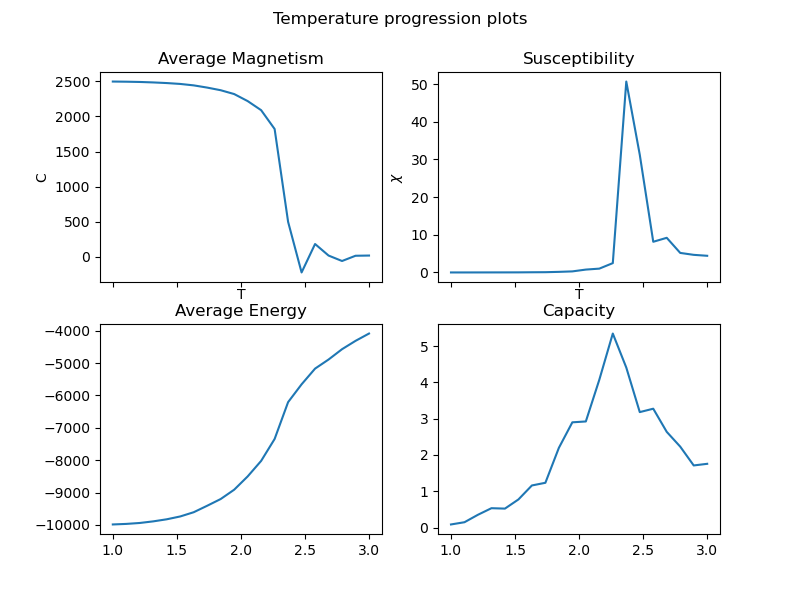
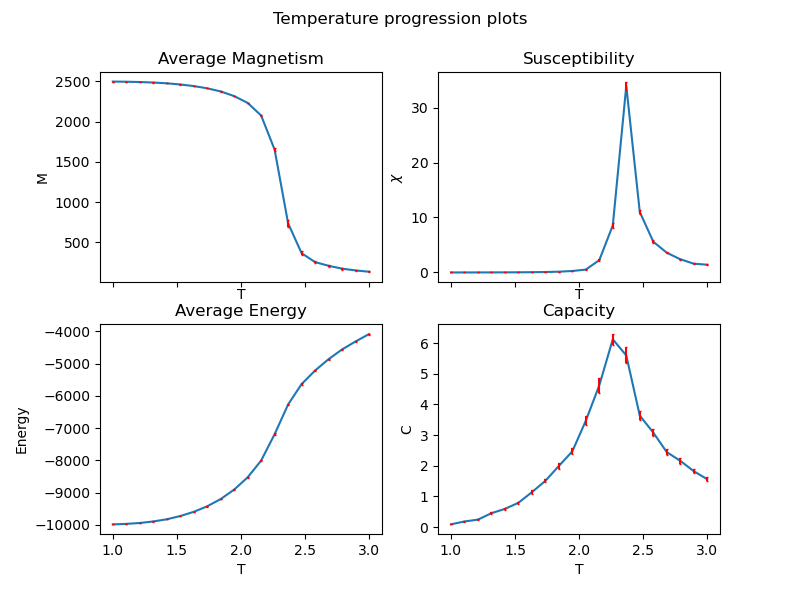
added errorbars and refactored storage method

diff --git a/simulate.py b/simulate.py
@@ -1,0 +1,120 @@
+from Ising_Model import Lattice
+import copy
+import numpy as np
+from matplotlib import pyplot as plt
+import timeit
+import json
+import time
+#params
+
+def equilibrate(states: Lattice,method: str):
+    """
+    returns a lattice that has been allowed to reach equilibrium (100 sweeps) using either
+    Glauber method or Kawasaki method
+    """
+    new = copy.copy(states)
+    if method.lower() == "g" or method.lower() == "glauber":
+        new.sim_glauber(100)
+    elif method.lower() == "k" or method.lower() == "kawasaki":
+        new.sim_kawasaki(100)
+    return new
+
+def susceptibility(av_M,av_M2,N,T):
+    return 1/(N*T)*(av_M2-av_M**2)
+
+
+def capacity(av_E,av_E2,N,T):
+    return 1/(N*T**2)*(av_E2-av_E**2)
+
+def error(av,av2,N,tau=10):
+    """
+    returns the uncorrelated error for either the magnetism or the energy
+    av = <x>
+    av2 = <x^2>
+    N = number of measurements
+    tau = autocorrelation time (number of sweeps between each measurement), default 10
+    """
+    return ((av2-av**2)*(2*tau)/(N))**(1/2)
+
+def bootstrap(measurements,value,k,N,T):
+    """
+    uses the bootstrap method to calculate the error on the capacity or the susceptibility
+    measurements: measurements to resample (energy or temperature)
+    value: value that is being calculated (capacity or susceptibility)
+    k: number of times to resample
+    """
+    xs = []
+    for i in range(k):
+        resamples = np.random.choice(measurements,len(measurements))
+        mean = np.mean(resamples)
+        square_mean = np.mean(np.power(resamples,2))
+        xs.append(value(mean,square_mean,N,T))
+    x_squares = np.power(xs,2)
+    av_x = np.mean(xs)
+    av_x2 = np.mean(x_squares)
+    return (av_x2-av_x**2)**(0.5)
+
+def jacknife(measurements,value,N,T):
+    """
+    use the jacknife method to calculate the error on the capacity or the susceptibility
+    measurement: measurement to resample (energy or temperature)
+    value: value that is being calculated (capacity or susceptibility)
+    """
+    mean = np.mean(measurements)
+    square_mean = np.mean(np.power(measurements,2))
+    x = value(mean,square_mean,N,T)
+    xs = []
+    for i in range(measurements):
+        new = np.delete(measurements,i)
+        mean = np.mean(new)
+        square_mean = np.mean(np.power(new))
+        xs.append(value(mean,square_mean,N,T))
+    return (sum([(x-xi)**2 for xi in xs]))**0.5
+    
+
+def main():
+    Ts = np.linspace(1,3,20).tolist()
+    lx,ly = 50,50
+    experiment = {"params": {"N":lx*ly,"tau":10},"measurements":{}}
+    Ms = []
+    xi = []
+    Es = []
+    C = []
+    i=0
+    for T in Ts:
+        L = Lattice(lx,ly,T,"up")
+        L = equilibrate(L,"glauber")
+        L.sim_glauber(10_000,True)
+        E,M = L.get_measurements()
+        measurement = {"T":T,"E":np.array(E),"M":np.absolute(np.array(M))}
+        experiment["measurements"][i] = measurement
+        del L
+        i+=1
+        print("completed temp",f"{i}/20")
+    for index,measurement in experiment["measurements"].items():
+        E = measurement["E"]
+        E_mean = np.mean(E)
+        E_square_mean = np.mean(np.power(E,2))
+        M = measurement["M"]
+        M_mean = np.mean(M)
+        M_square_mean = np.mean(np.power(M,2))
+        measurement["E_mean"] = float(E_mean)
+        measurement["M_mean"] = float(M_mean)
+        measurement["C"] = float(capacity(E_mean,E_square_mean,experiment["params"]["N"],measurement["T"]))
+        measurement["xi"] = float(susceptibility(M_mean,M_square_mean,experiment["params"]["N"],measurement["T"]))
+        measurement["E_error"] = error(E_mean,E_square_mean,experiment["params"]["N"])
+        measurement["M_error"] = error(M_mean,M_square_mean,experiment["params"]["N"])
+        measurement["C_berror"]=bootstrap(E,capacity,1000,experiment["params"]["N"],measurement["T"])
+        measurement["xi_berror"]=bootstrap(M,susceptibility,1000,experiment["params"]["N"],measurement["T"])
+        measurement["C_jerror"]=jacknife(E,capacity,1000,experiment["params"]["N"],measurement["T"])
+        measurement["xi_jerror"]=jacknife(M,susceptibility,1000,experiment["params"]["N"],measurement["T"])
+        del measurement["E"]
+        del measurement["M"]
+
+    with open("Data.json",'w') as outfile:
+        json.dump(experiment,outfile)
+
+start = time.time()
+main()
+print("Time:",time.time()-start)
+

diff --git a/plot.py b/plot.py
@@ -1,0 +1,48 @@
+import json
+from matplotlib import pyplot as plt
+
+with open("Data.json","r") as infile:
+    data = json.load(infile)
+
+Ts =[]
+Ms = []
+M_error = []
+Es = []
+E_error = []
+xi = []
+xi_error = []
+C = []
+C_error = []
+for x in data['measurements'].values():
+    Ts.append(x['T'])
+    Ms.append(x['M_mean'])
+    M_error.append(x['M_error'])
+    Es.append(x['E_mean'])
+    E_error.append(x['E_error'])
+    xi_error.append(x['xi_error'])
+    C_error.append(x['C_error'])
+    xi.append(x['xi'])
+    C.append(x['C'])
+    
+
+fig,axs = plt.subplots(2,2,sharex=True)
+fig.suptitle("Temperature progression plots")
+axs[0,0].errorbar(Ts,Ms,yerr=M_error,ecolor="r",capsize=1,barsabove=True)
+axs[0,0].set_title("Average Magnetism")
+axs[0,0].set_xlabel("T")
+axs[0,0].set_ylabel("M")
+axs[0,1].errorbar(Ts,xi,yerr=xi_error,ecolor="r",capsize=1,barsabove=True)
+axs[0,1].set_title("Susceptibility")
+axs[0,1].set_xlabel("T")
+axs[0,1].set_ylabel(r"$\chi$")
+axs[1,0].errorbar(Ts,Es,yerr=E_error,ecolor="r",capsize=1,barsabove=True)
+axs[1,0].set_title("Average Energy")
+axs[1,0].set_xlabel("T")
+axs[1,0].set_ylabel("Energy")
+axs[1,1].errorbar(Ts,C,yerr=C_error,ecolor="r",capsize=1,barsabove=True)
+axs[1,1].set_title("Capacity")
+axs[1,1].set_xlabel("T")
+axs[1,1].set_ylabel("C")
+fig.set_size_inches(8,6)
+plt.savefig("TempVariation.png",dpi=100)
+plt.show()

diff --git a/Ising_Model.py b/Ising_Model.py
@@ -9,6 +9,7 @@ from timeit import timeit
 import sys
 
 
+
 class Lattice:
     def __init__(self,WIDTH:int,HEIGHT:int,T:float,INITIAL = "random"):
         """
@@ -43,6 +44,7 @@ class Lattice:
         elif(method.lower() == "random"):
             return np.random.randint(2,size=(self._Y,self._X))
 
+    @property
     def size(self):
         return self._X*self._Y
     def __iter__(self):
@@ -108,6 +110,7 @@ class Lattice:
 
         return 2*spin*sum(neighbours)
 
+
     def glauber_step(self):
         """obtain a set of states from the Boltzmann distribution using the glauber method"""
         #choose a random spin within the grid
@@ -120,7 +123,7 @@ class Lattice:
             #flip the spin based on the determined probability
             self._spins[y,x]*=-1
         return self._spins
-        
+
     def glauber_sweep(self):
         """completes a whole sweep of the glauber method"""
         for i in range(self._X*self._Y):
@@ -138,6 +141,7 @@ class Lattice:
                     self.cache.append(copy.copy(self._spins))
                     self.E.append(self.calc_total_energy())
                     self.M.append(self.calc_total_magnetisation())
+                    #print(f"Temperature {self.T}: {r}/{runs}")
             else:
                 self.glauber_sweep()
     

diff --git a/main.py b/main.py
@@ -1,0 +1,2 @@
+import simulate
+
